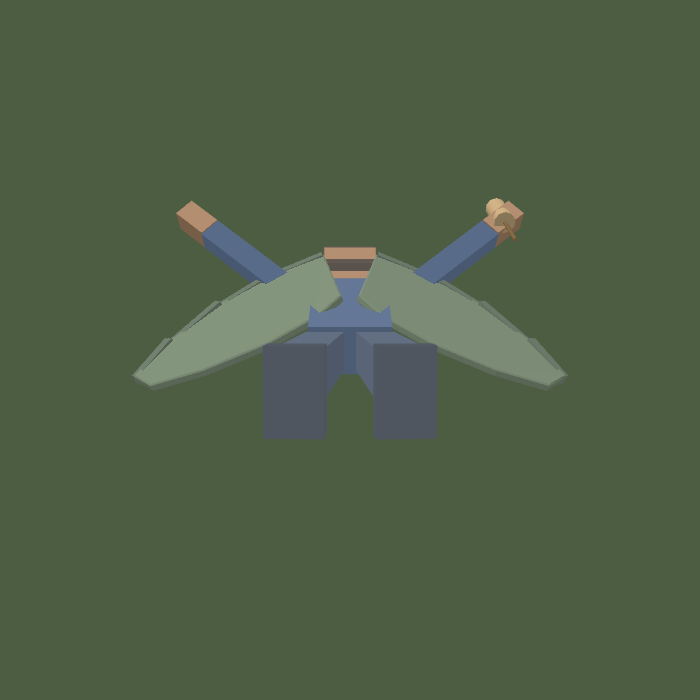
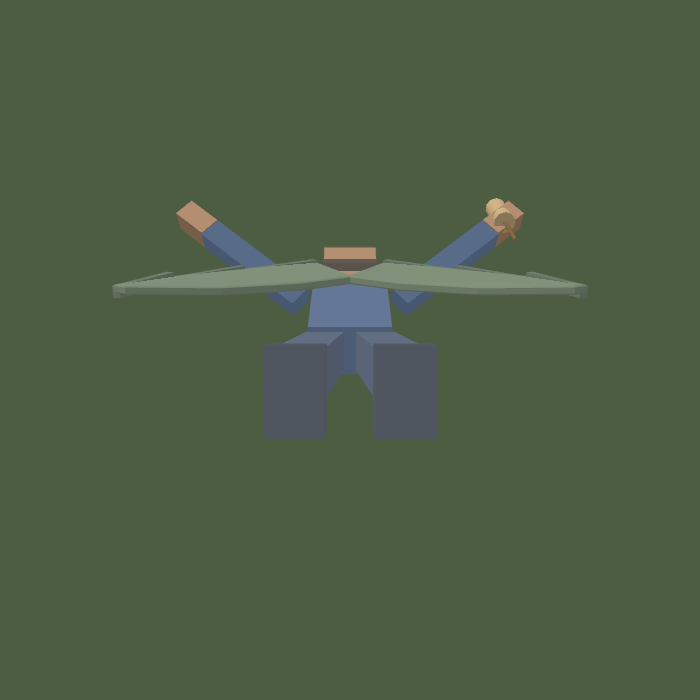
WIP wing shape and attitude

Changed region(s): [[0.15, 0.36, 0.84, 0.57]]

diff --git a/src/player/avatar.js b/src/player/avatar.js
@@ -204,15 +204,20 @@ const LEG_LENGTH = 0.46;
 const BOOT_HEIGHT = 0.05;
 
 /**
- * How far the wing tip falls below, and trails behind, the shoulder it grows
- * from, as fractions of standing height.
+ * How far the wing lifts out of its own plane by the tip, as a fraction of
+ * standing height. Applied by the square of how far out a point is, so the
+ * root sits flat against the back and the curve gathers toward the tip —
+ * which is the shape a shell has and a board does not.
  *
- * Applied by the square of how far out a point is, so the root stays flat
- * against the back and the curve gathers toward the tip — which is the shape a
- * shell has and a board does not.
+ * This used to have a partner that displaced along Y as well, meant as droop.
+ * Y is in the plane the outline is drawn in, so it was not droop at all: it
+ * sheared the outline backward, by the square of the span, and a square-law
+ * shear turns two straight edges into two arcs. That is why the wings came out
+ * as fat rounded lobes — a moth, or a pair of leaves — however the outline
+ * itself was drawn. Sweep belongs in the wing's attitude, where it can be
+ * measured; the outline should be the shape it says it is.
  */
-const WING_DROOP = 0.072;
-const WING_SWEEP = 0.03;
+const WING_CAMBER = 0.03;
 /** Where the wing meets the back. Everything outboard of this bends. */
 const WING_ROOT_X = 0.045;
 /** The tip, and so half the spread. */
@@ -225,8 +230,7 @@ function wingFraction(x) {
 
 /** One outline point, bent — for the pieces built from the outline directly. */
 function bentPoint(x, y) {
-  const t = wingFraction(x) ** 2;
-  return new THREE.Vector3(x, y - WING_DROOP * t, WING_SWEEP * t);
+  return new THREE.Vector3(x, y, WING_CAMBER * wingFraction(x) ** 2);
 }
 
 /**
@@ -241,8 +245,7 @@ function bendWing(geometry) {
   const position = geometry.getAttribute('position');
   for (let i = 0; i < position.count; i += 1) {
     const t = wingFraction(position.getX(i)) ** 2;
-    position.setY(i, position.getY(i) - WING_DROOP * t);
-    position.setZ(i, position.getZ(i) + WING_SWEEP * t);
+    position.setZ(i, position.getZ(i) + WING_CAMBER * t);
   }
   position.needsUpdate = true;
   geometry.computeVertexNormals();
@@ -491,6 +494,24 @@ export class Avatar {
     // you are flying at rather than across it.
     this.glidePose = { reach: -3.05, spread: 0.26 };
 
+    /**
+     * How the open wings sit on your back.
+     *
+     * Three Euler angles rather than three numbers typed into the pose, because
+     * what they produce is not what they look like: the wing is drawn in the
+     * body's XY plane and then the whole body is laid face down, so a rotation
+     * that reads as "tilt" on paper comes out as sweep in the air. They are
+     * solved against the flight path instead — see tools/wingpose.mjs, which
+     * reports the sweep and the dihedral a set of angles actually produces.
+     */
+    // Solved, not typed: 28 degrees of sweep along the mid-chord line, 6 of
+    // dihedral, and a face 0.99 flat to the airflow. It was 40 degrees of
+    // sweep and *minus* 22 of dihedral — the tips hung 30 cm below the
+    // shoulders, which is a wing hanging off a body rather than one holding it
+    // up, and is most of what made the whole thing read as on backwards or
+    // inside out.
+    this.wingPose = { x: -0.15, y: 0.05, z: 0.4 };
+
     this.walkPhase = 0;
     this.glideBlend = 0;
     /** Scratch for the pose pivot, and the damped first-person set-back. */
@@ -589,23 +610,32 @@ export class Avatar {
     // Outline in fractions of standing height: x outboard from the spine, y
     // along the back with +y toward the shoulders.
     //
-    //   span 0.460   chord 0.306   aspect 1.50:1
-    //   spread 2 x 0.505 = 1.01 of standing height
+    //   span 0.475   root chord 0.215   tip chord 0.028   aspect 2.21:1
+    //   spread 2 x 0.525 = 1.05 of standing height
     //
-    // It ran to x = 0.8 before, so the pair spanned 1.60 of height — 2.9 metres
-    // on a 1.83 metre player, nine times his own width. That is a hang glider,
-    // and from the chase camera it was the entire frame with a person hanging
-    // under it as a detail. An elytron spans about as wide as its wearer is
-    // tall, and has an aspect around 1.5:1; a paper aeroplane is nearer 2:1 and
-    // a hang glider wider still. Both numbers are checked in the self-test,
+    // The tip is the point of it, in both senses. The previous outline put its
+    // outermost vertex at 0.505 with neighbours at 0.009 and -0.145, so the
+    // last fifth of the wing carried a chord of 0.154 — 28 cm of wing hanging
+    // off the end. That is not a wingtip, it is a paddle. The tip chord is
+    // 0.028 now, the leading edge runs almost straight out before it kinks
+    // into the sweep, and the trailing edge carries its depth inboard where a
+    // wing's depth belongs.
+    //
+    // It ran to x = 0.8 originally, so the pair spanned 1.60 of height — 2.9
+    // metres on a 1.83 metre player, nine times his own width. That is a hang
+    // glider, and from the chase camera it was the entire frame with a person
+    // hanging under it as a detail. An elytron spans about as wide as its
+    // wearer is tall, which is where the span comes from.
+    //
+    // The aspect ratio was reasoned out the same way — an elytron is about
+    // 1.5:1 — and 1.5 came out looking like a moth. Depth is what does it: at
+    // 1.5 the chord is two thirds of the span and the pair read as leaves
+    // stuck on a back however the edges are drawn. Slenderness is what reads
+    // as a wing, so it is 2.2. Both numbers are checked in the self-test,
     // because the silhouette is the character.
-    //
-    // Ten points rather than eight, so the trailing edge can carry the
-    // elytron's long taper back to the hip instead of cutting straight across.
     const outline = [
-      [0.045, 0.111], [0.170, 0.119], [0.310, 0.085], [0.430, 0.009],
-      [0.505, -0.077], [0.470, -0.145], [0.360, -0.179], [0.220, -0.187],
-      [0.105, -0.162], [0.045, -0.119],
+      [0.050, 0.090], [0.230, 0.072], [0.400, 0.020], [0.525, -0.070],
+      [0.510, -0.098], [0.330, -0.132], [0.170, -0.137], [0.050, -0.125],
     ];
     const shape = new THREE.Shape();
     shape.moveTo(side * outline[0][0], outline[0][1]);
@@ -634,7 +664,7 @@ export class Avatar {
     // outline's own front points so it follows the bend instead of cutting
     // across it. One straight bar over a curved wing is the join that gives a
     // flat plank away, and it is what the old single 0.8-long spar was.
-    const front = outline.slice(0, 5).map(([x, y]) => bentPoint(side * x, y));
+    const front = outline.slice(0, 4).map(([x, y]) => bentPoint(side * x, y));
     for (let i = 0; i < front.length - 1; i += 1) {
       const a = front[i];
       const b = front[i + 1];
@@ -996,8 +1026,9 @@ export class Avatar {
     // your head. Drawing them in first person put a metre of canvas through
     // the camera. You cannot see your own wings, so do not draw them.
     this.wings.visible = player.elytraDeployed && !this.firstPerson;
-    this.wingL.rotation.set(0.15 * open, -0.35 + 1.5 * (1 - open), 0.2 * open);
-    this.wingR.rotation.set(0.15 * open, 0.35 - 1.5 * (1 - open), -0.2 * open);
+    const wing = this.wingPose;
+    this.wingL.rotation.set(wing.x * open, -wing.y + 1.5 * (1 - open), wing.z * open);
+    this.wingR.rotation.set(wing.x * open, wing.y - 1.5 * (1 - open), -wing.z * open);
 
     // The head keeps looking where you look, whatever the shoulders are doing.
     this.head.rotation.y = -neck;

diff --git a/tools/model.html b/tools/model.html
@@ -77,6 +77,19 @@ const POSES = {
     player: { horizontalSpeed: 4.2, velocity: new THREE.Vector3(0, 0, -4.2) },
     frames: 53, camera: [2.9, 1.1, -2.2], look: [0, 0.95, 0],
   },
+  // Straight down on a level glide, close in: the view that shows the wing's
+  // plan shape, which is the whole of its silhouette from a chase camera.
+  'wings-plan': {
+    player: { elytraDeployed: true, onGround: false, mode: 'glide', pitch: 0,
+      horizontalSpeed: 45, velocity: new THREE.Vector3(0, 0, -45) },
+    camera: [0, 5.0, 0.01], look: [0, 1.7, 0],
+  },
+  // And from dead astern, level, which is where dihedral shows itself.
+  'wings-astern': {
+    player: { elytraDeployed: true, onGround: false, mode: 'glide', pitch: 0,
+      horizontalSpeed: 45, velocity: new THREE.Vector3(0, 0, -45) },
+    camera: [0, 1.75, 3.4], look: [0, 1.75, 0],
+  },
   'stand-front': { player: {}, camera: [0, 1.1, -3.6], look: [0, 1.0, 0] },
   'stand-side': { player: {}, camera: [3.6, 1.1, 0], look: [0, 1.0, 0] },
   'stand-back': { player: {}, camera: [0, 1.4, 3.6], look: [0, 1.0, 0] },
